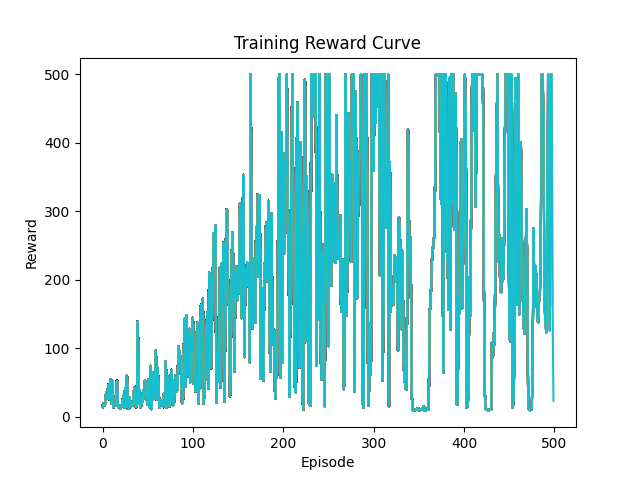
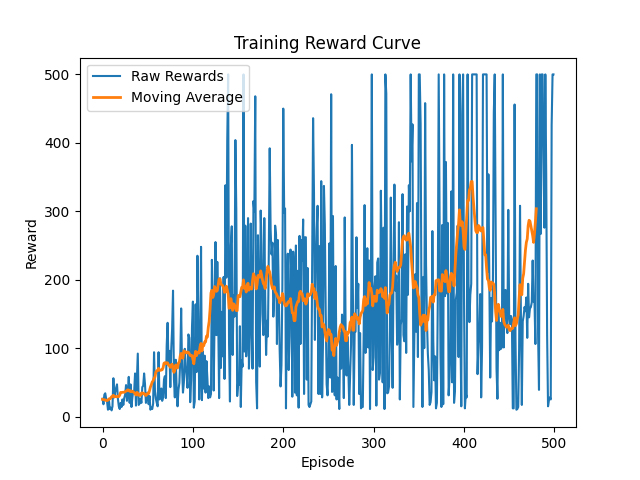
Added moving average visualization for training performance

diff --git a/train.py b/train.py
@@ -30,6 +30,9 @@ epsilon_min = 0.01
 
 rewards = []
 
+def moving_average(data, window_size=20):
+    return np.convolve(data, np.ones(window_size)/window_size, mode='valid')
+
 for episode in range(episodes):
 
     state, _ = env.reset()
@@ -84,10 +87,16 @@ for episode in range(episodes):
 
     print(f"Episode {episode}, Reward: {total_reward}")
 
-    plt.plot(rewards)
+plt.plot(rewards, label="Raw Rewards")
+
+ma_rewards = moving_average(rewards)
+plt.plot(range(len(ma_rewards)), ma_rewards, label="Moving Average", linewidth=2)
+
 plt.xlabel("Episode")
 plt.ylabel("Reward")
 plt.title("Training Reward Curve")
+
+plt.legend()
 
 plt.savefig("training_results.png")
 torch.save(model.state_dict(), "dqn_cartpole.pth")
